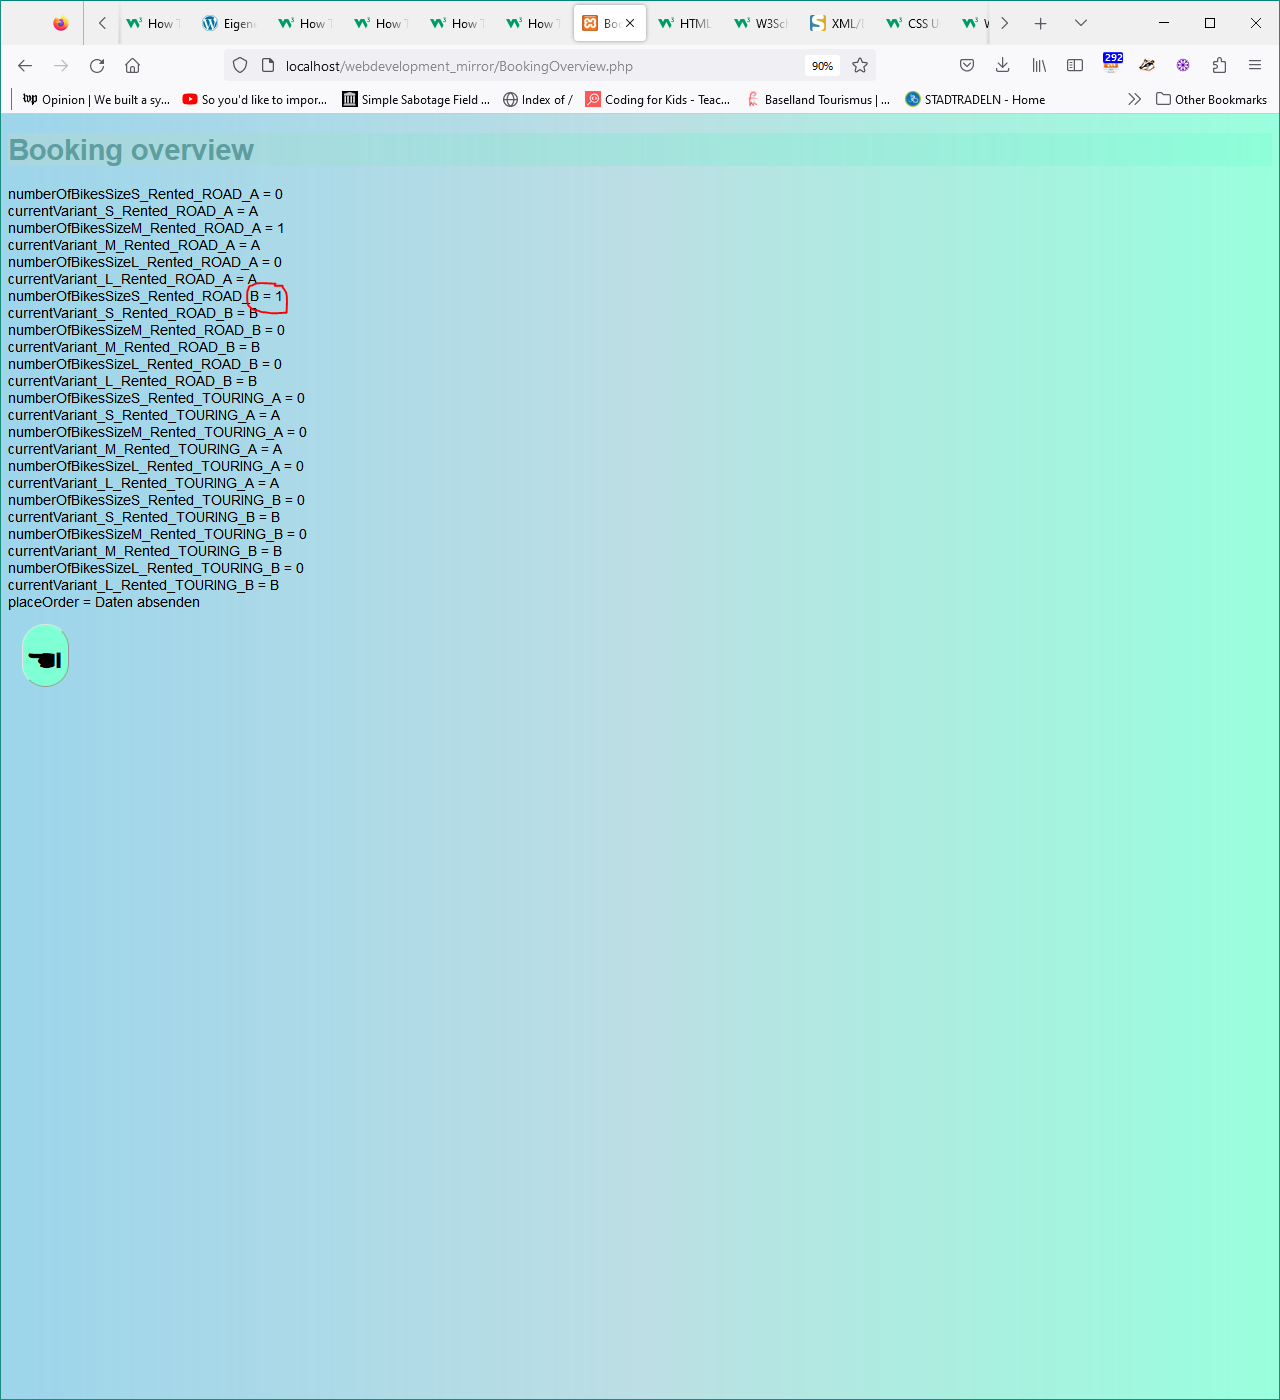
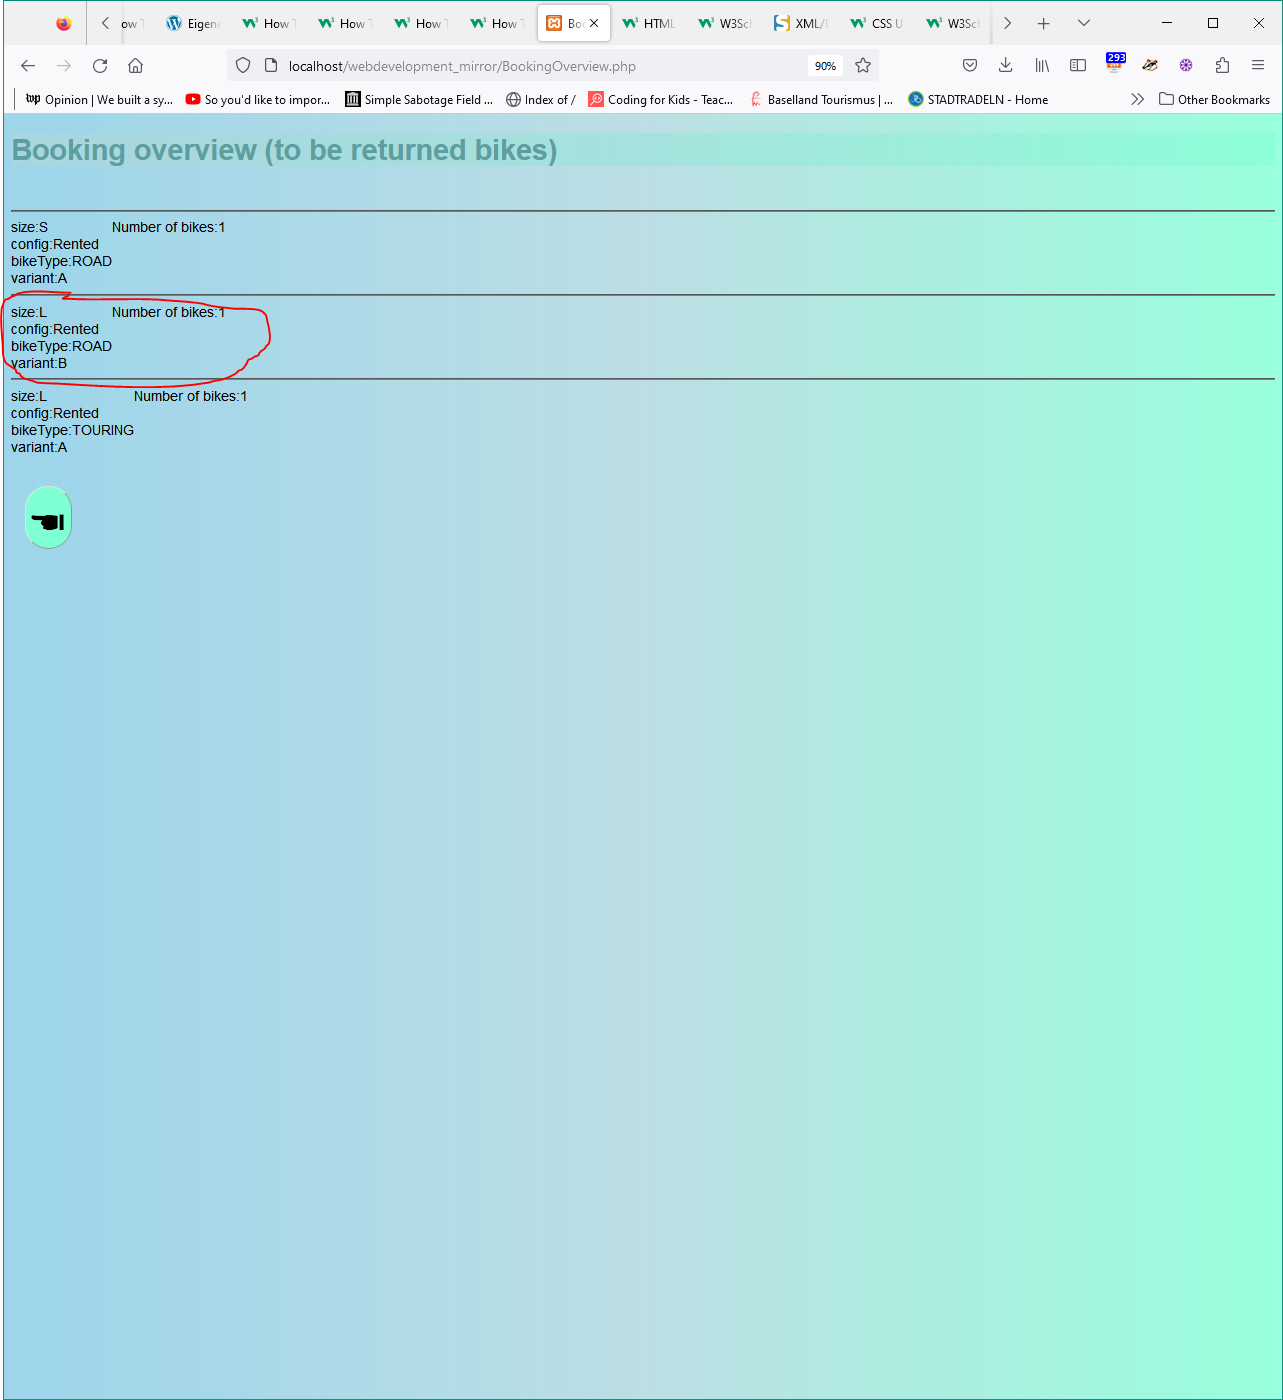
change logic of parsing $_POST data

diff --git a/OutsourcedFunction.php b/OutsourcedFunction.php
@@ -158,7 +158,7 @@ function createBikesOverview($config, $user, $bikeTypes) {
 							{
 								$description = "to rent";
 							}
-							$tmpName = $config . "_" . $bikeType . "_" . $variant;
+							$tmpName = "config=" . $config . "&" . "bikeType=". $bikeType . "&" . "variant=" . $variant;
                             echo <<<OWN
                                     <div class="bikeToChooseEntry">
                                     <p class="stubImage">Variant $variant ($totalNumberOfBikesForVariant x)
@@ -167,20 +167,20 @@ function createBikesOverview($config, $user, $bikeTypes) {
                                     <div $sizeSHidden>
                                     <label>Bikesize: S</label>
                                         <label for="numberOfBikesSizeS_$tmpName">number of Bikes $description:</label><br>
-                                        <input type="number" id="numberOfBikesSizeS_$tmpName" name="numberOfBikesSizeS_$tmpName" value="0" min="0" max=$numberBikesS><br>
-                                        <input type="text" id="VariantSizeS_$tmpName" name="currentVariant_S_$tmpName" value=$variant></input><br>
+                                        <input type="number" id="numberOfBikesSizeS_$tmpName" name="size=S&$tmpName" value="0" min="0" max=$numberBikesS><br>
+                                        <!-- <input type="text" id="VariantSizeS_$tmpName" name="currentVariant_S_$tmpName" value=$variant></input><br> -->
                                     </div>
                                     <div $sizeMHidden>
                                     <label>Bikesize: M</label>
                                         <label for="numberOfBikesSizeM_$tmpName">number of Bikes $description:</label><br>
-                                        <input type="number" id="numberOfBikesSizeM_$tmpName" name="numberOfBikesSizeM_$tmpName" value="0" min="0" max=$numberBikesM><br>
-                                        <input type="text" id="VariantSizeM_$tmpName" name="currentVariant_M_$tmpName" value=$variant></input><br>
+                                        <input type="number" id="numberOfBikesSizeM_$tmpName" name="size=M&$tmpName" value="0" min="0" max=$numberBikesM><br>
+                                        <!-- <input type="text" id="VariantSizeM_$tmpName" name="currentVariant_M_$tmpName" value=$variant></input><br> -->
                                     </div>
                                     <div $sizeLHidden>
                                     <label>Bikesize: L</label>
                                         <label for="numberOfBikesSizeL_$tmpName">number of Bikes $description:</label><br>
-                                        <input type="number" id="numberOfBikesSizeL_$tmpName" name="numberOfBikesSizeL_$tmpName"value="0"  min="0" max=$numberBikesL><br>
-                                        <input type="text" id="VariantSizeL_$tmpName" name="currentVariant_L_$tmpName" value=$variant></input><br>
+                                        <input type="number" id="numberOfBikesSizeL_$tmpName" name="size=L&$tmpName"value="0"  min="0" max=$numberBikesL><br>
+                                        <!-- <input type="text" id="VariantSizeL_$tmpName" name="currentVariant_L_$tmpName" value=$variant></input><br> -->
                                     </div>
                                     </div>
                                     OWN;

diff --git a/BookingOverview.php b/BookingOverview.php
@@ -20,17 +20,60 @@
 			margin-left: 15px;
 			margin-top: 15px;
 		}
+		div.row {
+			display: flex;
+            flex-direction: row;
+		}
+		div.column {
+			display: flex;
+            flex-direction: column;
+		}
 		</style>
 	</head>
 	<body>
-	<h1>Booking overview</h1>
 		<form method="post" action="bookingPlattform.php" name="testForm">
 		<?php
+			$overviewSubTitle = "rented";
+			//todo: think about how to prevent reiterating over $_POST lateron again... maybe fill the array with all the booking info here already?
 			foreach($_POST as $key => $value)
 			{
-				echo "$key = $value <br>";
+				//todo: cant the config be read from somewhere else? does really every entry have to carry this information?
+				if(str_contains($key, "Rented"))
+				{
+					// when the input comes from the "Rented"-bikes overview, the user wishes to return bikes
+					//todo: think of a more intuitive solution for this...
+					$overviewSubTitle = "returned";
+					break;
+				}
+			}
+			echo "<h1>Booking overview (to be $overviewSubTitle bikes)</h1>";
+			
+			echo "<br>";
+			foreach($_POST as $key => $value)
+			{
+				if($key != "placeOrder" && $value != 0) //prevent printing of "button" info AND dont display entry when nothing is "booked" (i.e. rented or returned)
+				{
+					//todo: make horizontal lines / separators shorter
+					echo "<hr>";
+					$testArray = array();
+					parse_str($key, $testArray);
+					//print_r($testArray);
+					echo '<div class="row">';
+					echo '<div class="column">';
+					foreach($testArray as $arrayKey => $arrayVal)
+					{
+						echo $arrayKey . ":" . $arrayVal . "<br>";
+					}
+					echo "</div>";
+					echo "Number of bikes:" . $value;
+					//echo "configuration: $testArray['config']";
+					echo "<br>";
+					//echo "$key : $value";	
+					echo "</div>";
+				}
 			}
 		?>
+		<br>
 		<input name="backToMain" type="submit" value="&#9754">
 		</form>
 	</body>
